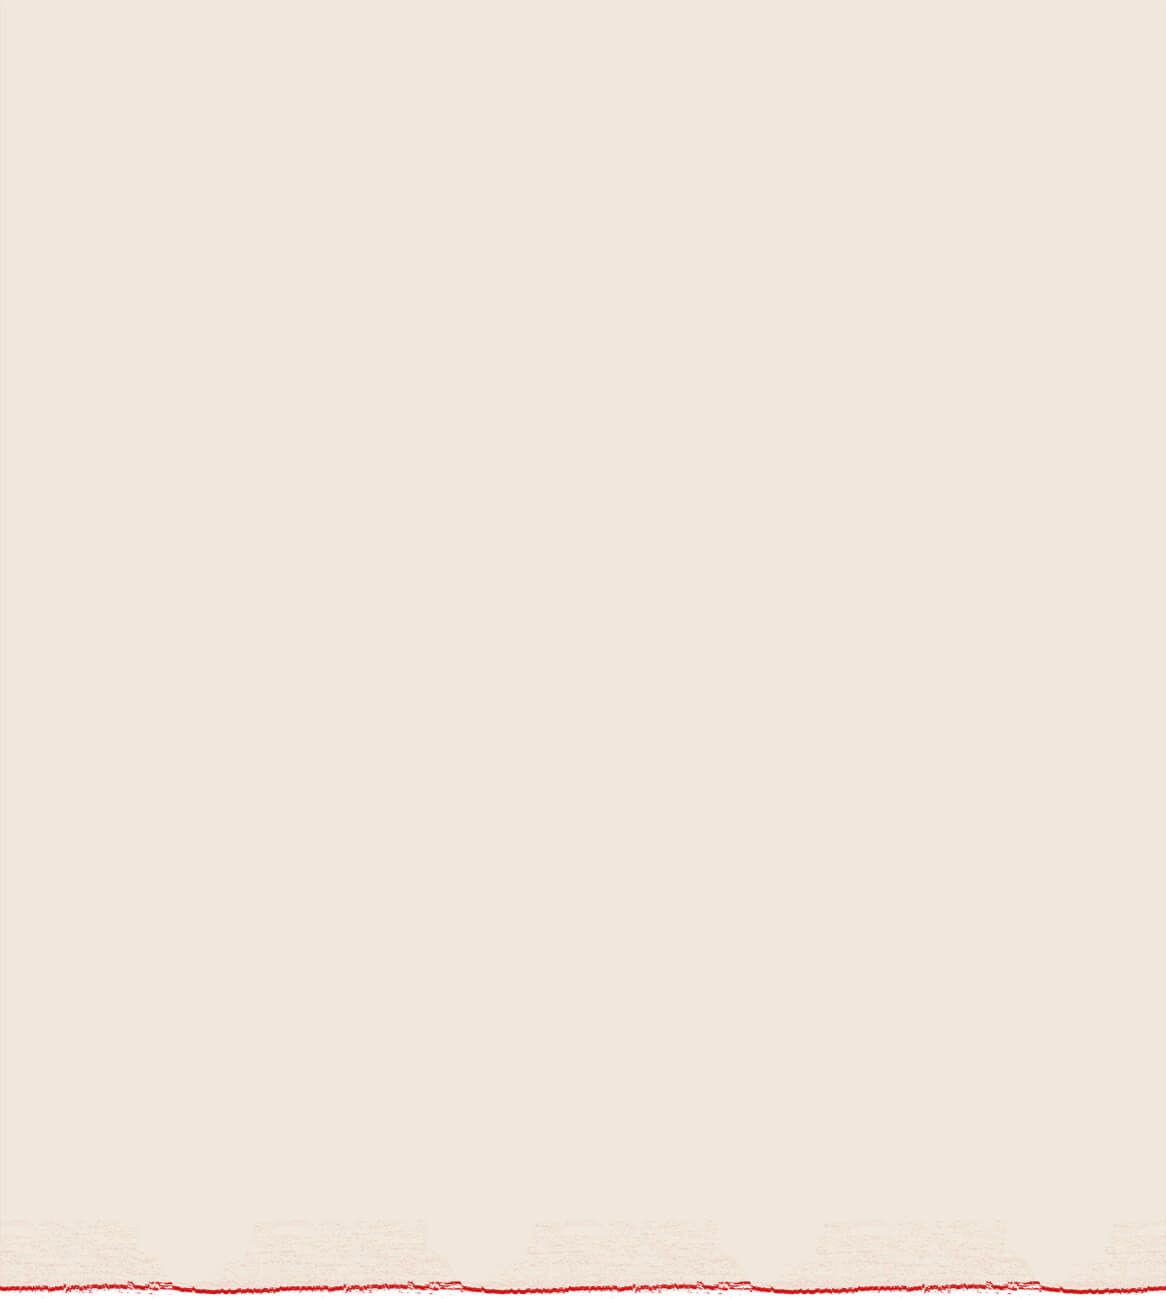
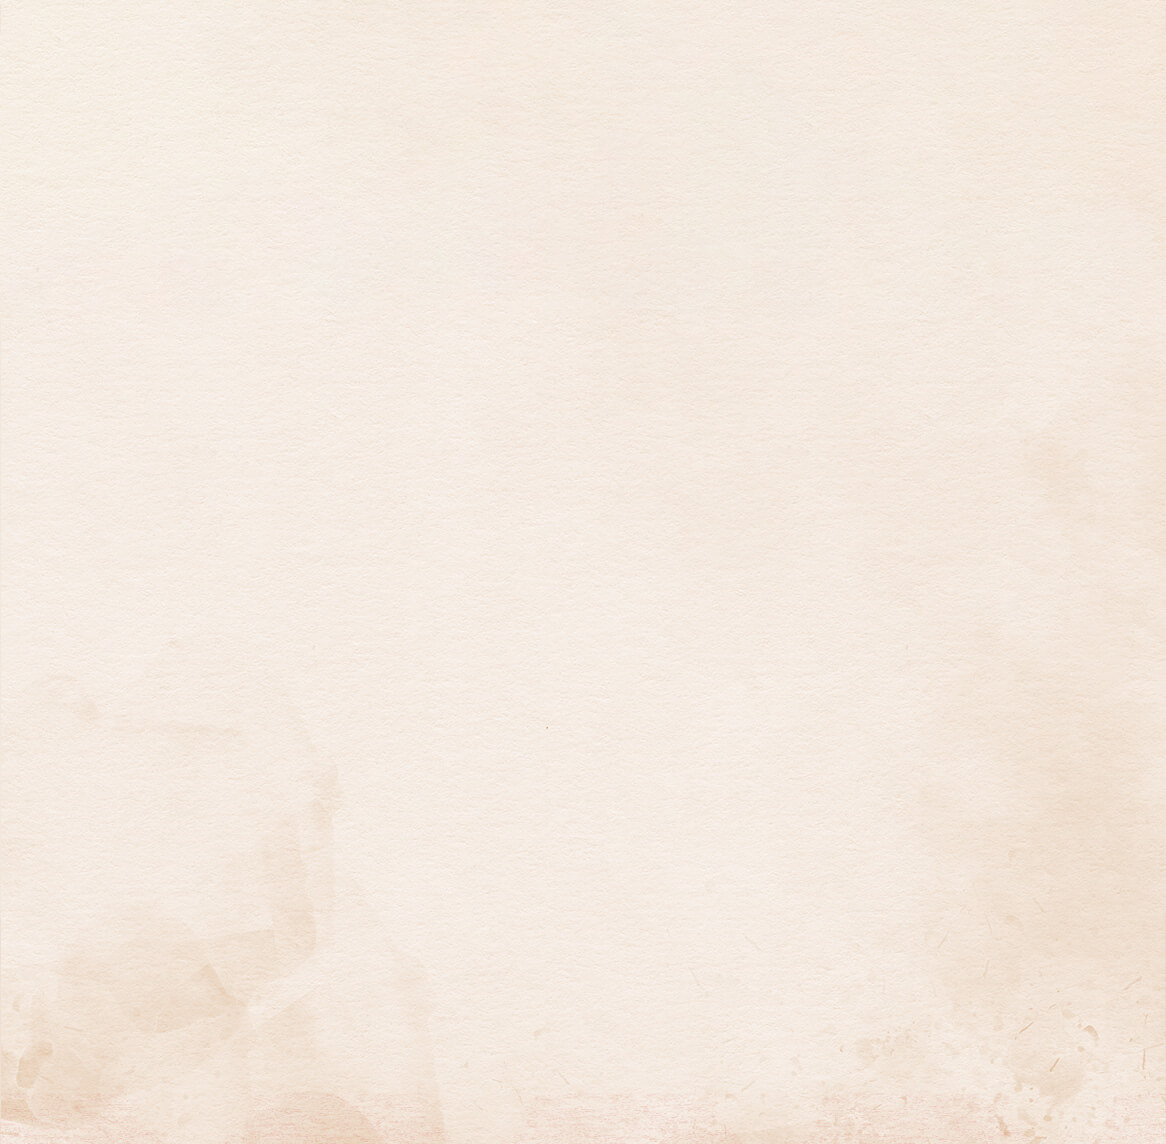
bg fixing done

Changed region(s): [[0.0, 0.9178, 1.0, 1.0], [0.1852, 0.8566, 0.2161, 0.8872]]

diff --git a/style-1.css b/style-1.css
@@ -273,7 +273,6 @@ header.fl-hdr {
     color: #fff;
     font-family: 'TitilliumWeb-Bold';
 }
-
 .fl-cortisol-sec .fl-cortisol-block-1{
     padding-bottom: 40px;
 }
@@ -282,6 +281,9 @@ header.fl-hdr {
     background-size: cover!important;
     background-position: center bottom!important;
     padding-bottom: 50px; 
+    margin-left: 2px;
+    margin-right: 2px;
+    position: relative;
 }
 .fl-managing-block-1 .fl-managing-head{
     margin-top: -8px;

diff --git a/index.html b/index.html
@@ -11,7 +11,6 @@
   <link rel="icon" href="favicon.ico" type="image/x-icon">
   <link rel="stylesheet" href="assets/css/bootstrap.min.css">
   <link rel="stylesheet" href="style.css">
-  
 </head> 
 
 <body> 
@@ -208,6 +207,7 @@
       </div>
     </div>
   </div>
+  <span class="btm-wave-img lazy" data-src="assets/images/btm-wave-img.jpg"></span>
 </section>
 
 
